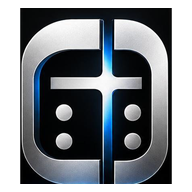
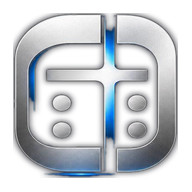
v2: icono transparente, regalo solo al lider, sonidos realistas, historial por partida/equipo

diff --git a/app.js b/app.js
@@ -9,17 +9,17 @@ var METAS = [100, 200, 300, 500];
 /* ---------- Pullas (contenido sano, para amigos de la iglesia) ---------- */
 var PULLAS = {
   basicas: [
-    { id: 'risa',     emoji: '😂', titulo: 'Risa buena',            melodia: [[523, .10], [659, .10], [784, .10], [659, .10], [523, .18]] },
-    { id: 'corona',   emoji: '👑', titulo: 'Rey del dominó',        melodia: [[392, .14], [523, .14], [659, .24]] },
-    { id: 'rayo',     emoji: '⚡', titulo: 'Más rápido que el tren', melodia: [[880, .06], [1174, .06], [1568, .14]] },
-    { id: 'tortuga',  emoji: '🐢', titulo: 'Sin prisa, con calma',  melodia: [[220, .18], [196, .18], [174, .28]] },
-    { id: 'trompeta', emoji: '🎺', titulo: 'Suena la victoria',     melodia: [[523, .09], [523, .09], [659, .20]] },
-    { id: 'estrella', emoji: '⭐', titulo: 'Brilla, brilla',        melodia: [[1046, .09], [1318, .09], [1568, .24]] }
+    { id: 'risa',     emoji: '😂', titulo: 'Risa buena',            sonido: 'risa' },
+    { id: 'corona',   emoji: '👑', titulo: 'Rey del dominó',        sonido: 'corona' },
+    { id: 'rayo',     emoji: '⚡', titulo: 'Más rápido que el tren', sonido: 'rayo' },
+    { id: 'tortuga',  emoji: '🐢', titulo: 'Sin prisa, con calma',  sonido: 'tortuga' },
+    { id: 'trompeta', emoji: '🎺', titulo: 'Suena la victoria',     sonido: 'trompeta' },
+    { id: 'estrella', emoji: '⭐', titulo: 'Brilla, brilla',        sonido: 'estrella' }
   ],
   epicas: [
-    { id: 'copa',    emoji: '🏆', titulo: 'Campeón con humildad', melodia: [[523, .11], [659, .11], [784, .11], [1046, .30]] },
-    { id: 'fiesta',  emoji: '🎆', titulo: 'Fiesta sana',          melodia: [[659, .08], [784, .08], [1046, .08], [784, .08], [1046, .22]] },
-    { id: 'aleluya', emoji: '🙌', titulo: 'Gloria a Dios',       melodia: [[392, .14], [523, .14], [659, .14], [784, .34]] }
+    { id: 'copa',    emoji: '🏆', titulo: 'Campeón con humildad', sonido: 'copa' },
+    { id: 'fiesta',  emoji: '🎆', titulo: 'Fiesta sana',          sonido: 'fiesta' },
+    { id: 'aleluya', emoji: '🙌', titulo: 'Gloria a Dios',       sonido: 'aleluya' }
   ]
 };
 var GROUP_NAMES = { basicas: 'Básicas', epicas: 'Épicas' };
@@ -98,6 +98,176 @@ var SFX = {
   fanfarria:function () { melody([[392, .12], [392, .12], [392, .12], [523, .22], [659, .10], [784, .36]], 'sawtooth', 0.45); }
 };
 
+/* ----- Sonidos realistas de pullas (todo sintetizado en WebAudio) ----- */
+var _noiseBuf = null;
+function getNoiseBuf() {
+  if (_noiseBuf) return _noiseBuf;
+  var len = Math.floor(AC.sampleRate * 1.2);
+  _noiseBuf = AC.createBuffer(1, len, AC.sampleRate);
+  var d = _noiseBuf.getChannelData(0);
+  for (var i = 0; i < len; i++) d[i] = Math.random() * 2 - 1;
+  return _noiseBuf;
+}
+function noiseHit(t0, dur, type, freq, q, vol) {
+  var src = AC.createBufferSource();
+  src.buffer = getNoiseBuf(); src.loop = true;
+  var f = AC.createBiquadFilter();
+  f.type = type; f.frequency.value = freq; f.Q.value = q || 1;
+  var g = AC.createGain();
+  g.gain.setValueAtTime(0.0001, t0);
+  g.gain.exponentialRampToValueAtTime(vol, t0 + 0.008);
+  g.gain.exponentialRampToValueAtTime(0.0001, t0 + dur);
+  src.connect(f); f.connect(g); g.connect(master);
+  src.start(t0); src.stop(t0 + dur + 0.05);
+}
+function brassNote(freq, t0, dur, vol) {
+  // Timbre de metal: sierra + filtro + ataque + vibrato
+  var o = AC.createOscillator(); o.type = 'sawtooth'; o.frequency.value = freq;
+  var f = AC.createBiquadFilter();
+  f.type = 'lowpass'; f.frequency.value = 2100; f.Q.value = 0.8;
+  var g = AC.createGain();
+  var v = vol || 0.5;
+  g.gain.setValueAtTime(0.0001, t0);
+  g.gain.exponentialRampToValueAtTime(v, t0 + 0.055);
+  g.gain.setValueAtTime(v, t0 + Math.max(0.056, dur - 0.09));
+  g.gain.exponentialRampToValueAtTime(0.0001, t0 + dur);
+  var lfo = AC.createOscillator(); lfo.frequency.value = 5.6;
+  var lg = AC.createGain(); lg.gain.value = freq * 0.014;
+  lfo.connect(lg); lg.connect(o.frequency);
+  o.connect(f); f.connect(g); g.connect(master);
+  o.start(t0); lfo.start(t0);
+  o.stop(t0 + dur + 0.05); lfo.stop(t0 + dur + 0.05);
+}
+function softNote(freq, t0, dur, type, vol) {
+  var o = AC.createOscillator(); o.type = type || 'sine'; o.frequency.value = freq;
+  var g = AC.createGain();
+  g.gain.setValueAtTime(0.0001, t0);
+  g.gain.exponentialRampToValueAtTime(vol || 0.4, t0 + 0.03);
+  g.gain.exponentialRampToValueAtTime(0.0001, t0 + dur);
+  o.connect(g); g.connect(master);
+  o.start(t0); o.stop(t0 + dur + 0.05);
+}
+
+var PULLA_SFX = {
+  risa: function () {
+    // Carcajada: ráfagas cortas "ja-ja-ja" con tono descendente
+    if (!AC) return;
+    var t = AC.currentTime + 0.02;
+    for (var i = 0; i < 6; i++) {
+      (function (i) {
+        var t0 = t + i * 0.13;
+        var o = AC.createOscillator(); o.type = 'triangle';
+        var f0 = 310 - i * 22;
+        o.frequency.setValueAtTime(f0, t0);
+        o.frequency.exponentialRampToValueAtTime(Math.max(120, f0 * 0.6), t0 + 0.09);
+        var bp = AC.createBiquadFilter();
+        bp.type = 'bandpass'; bp.frequency.value = 950; bp.Q.value = 1.1;
+        var g = AC.createGain();
+        g.gain.setValueAtTime(0.0001, t0);
+        g.gain.exponentialRampToValueAtTime(0.5, t0 + 0.015);
+        g.gain.exponentialRampToValueAtTime(0.0001, t0 + 0.11);
+        o.connect(bp); bp.connect(g); g.connect(master);
+        o.start(t0); o.stop(t0 + 0.16);
+      })(i);
+    }
+  },
+  corona: function () {
+    // Llamada real: Sol-Do-Mi-Sol sostenido
+    if (!AC) return;
+    var t = AC.currentTime + 0.02;
+    [[392, 0, 0.14], [523, 0.15, 0.14], [659, 0.30, 0.14], [784, 0.45, 0.55]]
+      .forEach(function (n) { brassNote(n[0], t + n[1], n[2], 0.42); });
+  },
+  rayo: function () {
+    // Relámpago: zumbido eléctrico descendente + chasquido
+    if (!AC) return;
+    var t = AC.currentTime + 0.02;
+    var o = AC.createOscillator(); o.type = 'sawtooth';
+    o.frequency.setValueAtTime(1900, t);
+    o.frequency.exponentialRampToValueAtTime(85, t + 0.36);
+    var g = AC.createGain();
+    g.gain.setValueAtTime(0.0001, t);
+    g.gain.exponentialRampToValueAtTime(0.45, t + 0.012);
+    g.gain.exponentialRampToValueAtTime(0.0001, t + 0.42);
+    o.connect(g); g.connect(master);
+    o.start(t); o.stop(t + 0.5);
+    noiseHit(t, 0.1, 'highpass', 2800, 0.8, 0.3);
+  },
+  tortuga: function () {
+    // Lenta y grave: tres notas bajas descendentes
+    if (!AC) return;
+    var t = AC.currentTime + 0.02;
+    [[196, 0], [174, 0.34], [147, 0.68]]
+      .forEach(function (n) { softNote(n[0], t + n[1], 0.34, 'sine', 0.42); });
+  },
+  trompeta: function () {
+    // Trompeta de verdad: ta-ta-taaa con vibrato
+    if (!AC) return;
+    var t = AC.currentTime + 0.02;
+    brassNote(523, t, 0.13, 0.45);
+    brassNote(523, t + 0.15, 0.13, 0.45);
+    brassNote(784, t + 0.30, 0.55, 0.48);
+  },
+  estrella: function () {
+    // Destello: glissando ascendente + tintineos
+    if (!AC) return;
+    var t = AC.currentTime + 0.02;
+    var o = AC.createOscillator(); o.type = 'sine';
+    o.frequency.setValueAtTime(1500, t);
+    o.frequency.exponentialRampToValueAtTime(3100, t + 0.28);
+    var g = AC.createGain();
+    g.gain.setValueAtTime(0.0001, t);
+    g.gain.exponentialRampToValueAtTime(0.3, t + 0.03);
+    g.gain.exponentialRampToValueAtTime(0.0001, t + 0.34);
+    o.connect(g); g.connect(master);
+    o.start(t); o.stop(t + 0.4);
+    [2093, 2637, 3520].forEach(function (fr, i) {
+      softNote(fr, t + 0.30 + i * 0.11, 0.16, 'sine', 0.32);
+    });
+  },
+  copa: function () {
+    // Fanfarria épica + acorde final de campeón
+    if (!AC) return;
+    var t = AC.currentTime + 0.02;
+    [[523, 0, 0.13], [659, 0.14, 0.13], [784, 0.28, 0.13], [1046, 0.42, 0.65]]
+      .forEach(function (n) { brassNote(n[0], t + n[1], n[2], 0.44); });
+    [523, 659, 784].forEach(function (fr) { brassNote(fr, t + 0.42, 0.75, 0.2); });
+  },
+  fiesta: function () {
+    // Fuegos artificiales: silbido ascendente + estallidos
+    if (!AC) return;
+    var t = AC.currentTime + 0.02;
+    var o = AC.createOscillator(); o.type = 'sine';
+    o.frequency.setValueAtTime(700, t);
+    o.frequency.exponentialRampToValueAtTime(2500, t + 0.45);
+    var g = AC.createGain();
+    g.gain.setValueAtTime(0.0001, t);
+    g.gain.exponentialRampToValueAtTime(0.22, t + 0.05);
+    g.gain.exponentialRampToValueAtTime(0.0001, t + 0.5);
+    o.connect(g); g.connect(master);
+    o.start(t); o.stop(t + 0.55);
+    [[0.5, 1800], [0.78, 1200], [1.05, 2400], [1.3, 900]]
+      .forEach(function (p) { noiseHit(t + p[0], 0.22, 'bandpass', p[1], 1.4, 0.5); });
+  },
+  aleluya: function () {
+    // Coro cálido: acorde con ataque lento y caída suave
+    if (!AC) return;
+    var t = AC.currentTime + 0.02;
+    [261.6, 329.6, 392, 523.3].forEach(function (fr) {
+      var o1 = AC.createOscillator(); o1.type = 'triangle'; o1.frequency.value = fr;
+      var o2 = AC.createOscillator(); o2.type = 'sine'; o2.frequency.value = fr * 1.003;
+      var g = AC.createGain();
+      g.gain.setValueAtTime(0.0001, t);
+      g.gain.exponentialRampToValueAtTime(0.16, t + 0.5);
+      g.gain.setValueAtTime(0.16, t + 1.3);
+      g.gain.exponentialRampToValueAtTime(0.0001, t + 1.9);
+      o1.connect(g); o2.connect(g); g.connect(master);
+      o1.start(t); o2.start(t);
+      o1.stop(t + 2); o2.stop(t + 2);
+    });
+  }
+};
+
 /* ---------- Utilidades ---------- */
 function $(id) { return document.getElementById(id); }
 function esc(s) {
@@ -135,9 +305,12 @@ function renderCards() {
     var card = $('card' + i);
     card.classList.toggle('selected', state.selected === i);
     var gift = $('gift' + i);
-    var unlocked = state.pullas[i].length > 0;
-    gift.classList.toggle('unlocked', unlocked);
-    gift.classList.toggle('locked', !unlocked);
+    // El regalo solo está encendido en el equipo que va ganando en el momento.
+    var s0 = state.teams[0].score, s1 = state.teams[1].score;
+    var lider = s0 === s1 ? -1 : (s0 > s1 ? 0 : 1);
+    var activo = lider === i;
+    gift.classList.toggle('unlocked', activo);
+    gift.classList.toggle('locked', !activo);
     gift.setAttribute('aria-label', 'Pullas de ' + team.name);
   }
   $('panelTitle').textContent = 'Puntos para ' + state.teams[state.selected].name;
@@ -164,7 +337,9 @@ function renderHistory() {
   var body = $('historyBody');
   var html = '';
 
-  // Partida actual: manos por equipo, numeradas desde 1 (más recientes primero)
+  // Partida en curso: dividida por partida y por equipo.
+  // Cada equipo numera SUS propias manos desde 1 (más recientes primero).
+  html += '<div class="hist-match"><p class="hist-match-title">Partida #' + state.gameN + ' · en curso</p>';
   for (var i = 0; i < 2; i++) {
     var th = teamHands(state.hands, i);
     html += '<div class="hist-group"><p class="hist-group-title">' + esc(state.teams[i].name) + '</p>';
@@ -179,6 +354,7 @@ function renderHistory() {
     }
     html += '</div>';
   }
+  html += '</div>';
 
   // Partidas archivadas
   state.history.forEach(function (g) {
@@ -484,7 +660,8 @@ function mostrarPullaGrande(pulla) {
   el.innerHTML = '<div class="pb-emoji">' + pulla.emoji + '</div>' +
                  '<div class="pb-title">' + esc(pulla.titulo) + '</div>';
   document.body.appendChild(el);
-  melody(pulla.melodia);
+  if (PULLA_SFX[pulla.sonido]) PULLA_SFX[pulla.sonido]();
+  else if (pulla.melodia) melody(pulla.melodia);
   requestAnimationFrame(function () { el.classList.add('show'); });
   setTimeout(function () {
     el.classList.remove('show');

diff --git a/styles.css b/styles.css
@@ -287,6 +287,10 @@ body.modal-open{overflow:hidden;}
 .history-head h2{margin:0;font-size:24px;font-weight:800;}
 .history-actions{display:flex;gap:6px;}
 .hist-group{margin-top:14px;}
+.hist-match-title{
+  color:var(--text);font-size:16px;font-weight:800;
+  margin:14px 0 2px;letter-spacing:.4px;
+}
 .hist-group-title{
   color:var(--muted);font-size:14px;font-weight:700;
   margin:0 0 4px;letter-spacing:.4px;

diff --git a/sw.js b/sw.js
@@ -1,5 +1,5 @@
 /* Cristo Domino — Service Worker. App shell cacheado para uso sin conexión. */
-var CACHE = 'cristo-domino-v1';
+var CACHE = 'cristo-domino-v2';
 var ASSETS = [
   './',
   './index.html',
